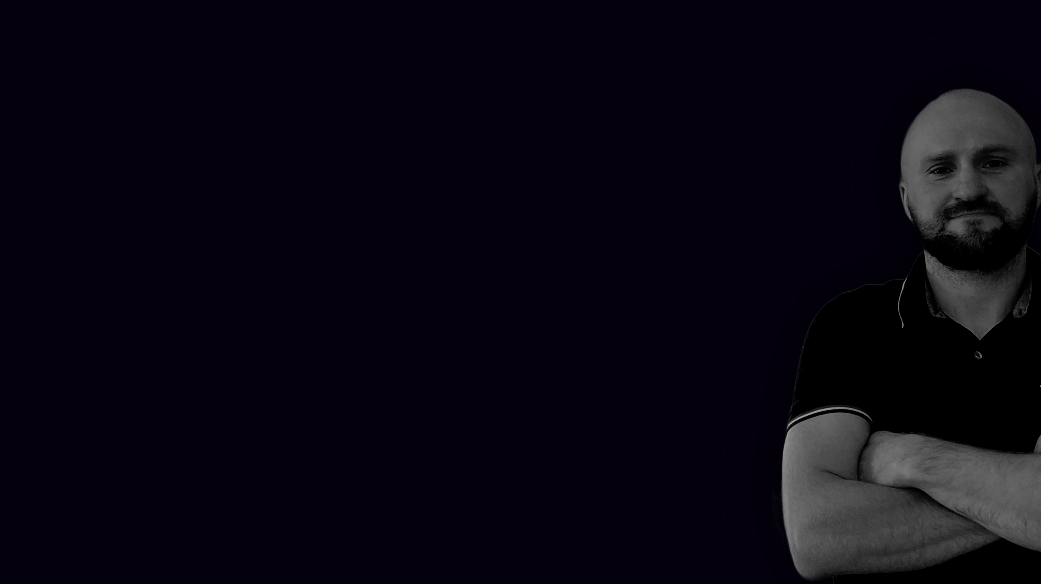
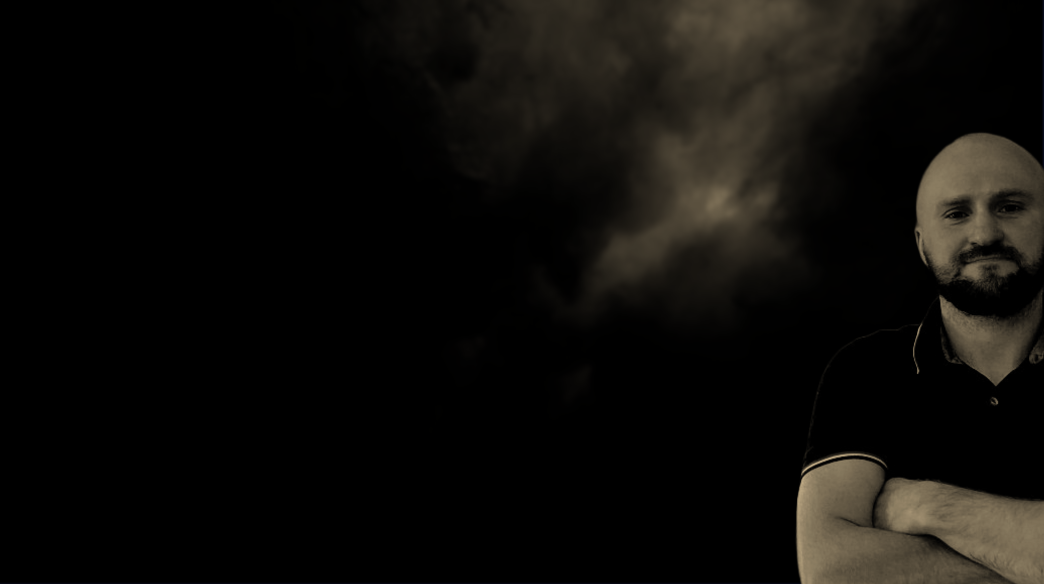
toggle

Changed region(s): [[0.7378, 0.0, 1.0, 1.0], [0.4304, 0.0, 0.8915, 0.4932]]

diff --git a/src/components/header.js b/src/components/header.js
@@ -1,56 +1,79 @@
 import React, { useState } from 'react';
-import { Navbar, Nav, NavDropdown } from 'react-bootstrap';
-import Projects from '../components/pages/projects';
+import { Navbar, Nav } from 'react-bootstrap';
+import resultImg from '../components/images/result.png'; // import the result.png image
+import whiteImg from '../components/images/white.png'; // import the white.png image
 
 function Header() {
   const [expanded, setExpanded] = useState(false);
+  const [bgImage, setBgImage] = useState(resultImg); // set the initial background image to resultImg
+  const [isToggleOn, setIsToggleOn] = useState(false); // set the initial toggle state to false
 
   const handleNavCollapse = () => {
     setExpanded(false);
   };
 
+
+  const handleBgToggle = () => {
+    const newBgImage = bgImage === resultImg ? whiteImg : resultImg;
+    setBgImage(newBgImage);
+    document.body.style.backgroundImage = `url(${newBgImage})`;
+    if (newBgImage === whiteImg) {
+      document.body.classList.add('white-bg'); // add the white-bg class to the body element
+    } else {
+      document.body.classList.remove('white-bg'); // remove the white-bg class from the body element
+    }
+    setIsToggleOn(!isToggleOn);
+  };
+
   return (
-    <Navbar
-      style={{ marginRight: '2%' }}
-      id="navbarNav"
-      expand="lg"
-      expanded={expanded}
-    >
-      <Navbar.Brand
-        href="#"
-        id="navbar-logo"
-        style={{ color: 'orange', marginLeft: '2%', marginRight: '2%' }}
+    <div className="header" >
+      <Navbar
+        style={{ marginRight: '2%' }}
+        id="navbarNav"
+        expand="lg"
+        expanded={expanded}
       >
-        &#123;&#123; Mariusz-Portfolio &#125;&#125;
-      </Navbar.Brand>
-      <Navbar.Toggle
-        aria-controls="basic-navbar-nav"
-        onClick={() => setExpanded(expanded ? false : 'expanded')}
-      />
-      <Navbar.Collapse id="basic-navbar-nav">
-        <Nav
-          className="navbar-collapse justify-content-end"
-          id="navbarNav"
-          onClick={() => setExpanded(false)}
+        <Navbar.Brand
+          href="#"
+          id="navbar-logo"
+          style={{ color: 'orange', marginLeft: '2%', marginRight: '2%' }}
         >
-          <Nav.Link href="#/projects" onClick={handleNavCollapse}>
-            Projects
-          </Nav.Link>
-          <Nav.Link href="#/skills" onClick={handleNavCollapse}>
-            Skills
-          </Nav.Link>
-          <Nav.Link href="#/About" onClick={handleNavCollapse}>
-            About
-          </Nav.Link>
-          <Nav.Link href="#/Contact" onClick={handleNavCollapse}>
-            Contact
-          </Nav.Link>
-          <Nav.Link href="#/CV" onClick={handleNavCollapse}>
-            CV
-          </Nav.Link>
-        </Nav>
-      </Navbar.Collapse>
-    </Navbar>
+          &#123;&#123; Mariusz-Portfolio &#125;&#125;
+        </Navbar.Brand>
+        <label className="switch">
+        <input type="checkbox" onClick={handleBgToggle} />
+        <span className="slider round" style={{ background: isToggleOn ? 'green' : 'red' }}></span>
+      </label>
+        <Navbar.Toggle
+          aria-controls="basic-navbar-nav"
+          onClick={() => setExpanded(expanded ? false : 'expanded')}
+        />
+        <Navbar.Collapse id="basic-navbar-nav">
+          <Nav
+            className="navbar-collapse justify-content-end"
+            id="navbarNav"
+            onClick={() => setExpanded(false)}
+          >
+            <Nav.Link href="#/projects" onClick={handleNavCollapse}>
+              Projects
+            </Nav.Link>
+            <Nav.Link href="#/skills" onClick={handleNavCollapse}>
+              Skills
+            </Nav.Link>
+            <Nav.Link href="#/About" onClick={handleNavCollapse}>
+              About
+            </Nav.Link>
+            <Nav.Link href="#/Contact" onClick={handleNavCollapse}>
+              Contact
+            </Nav.Link>
+            <Nav.Link href="#/CV" onClick={handleNavCollapse}>
+              CV
+            </Nav.Link>
+          </Nav>
+        </Navbar.Collapse>
+      </Navbar>
+       
+    </div>
   );
 }
 

diff --git a/src/index.css b/src/index.css
@@ -17,6 +17,73 @@ h2 {
   animation: slide-up 3s ease-out forwards;
 }
 
+.white-bg p {
+  color: black !important;
+} 
+
+.white-bg p {
+  color: black !important;
+} 
+
+.switch {
+  
+  position: relative;
+  display: inline-block;
+  width: 60px;
+  height: 34px;
+}
+
+.switch input {
+  opacity: 0;
+  width: 0;
+  height: 0;
+}
+
+.slider {
+  position: absolute;
+  cursor: pointer;
+  top: 0;
+  left: 0;
+  right: 0;
+  bottom: 0;
+  background-color: #ffffff !important;
+  -webkit-transition: .4s;
+  transition: .4s;
+}
+
+.slider:before {
+  position: absolute;
+  content: "";
+  height: 26px;
+  width: 26px;
+  left: 4px;
+  bottom: 4px;
+  background-color: rgb(252, 164, 0);
+  -webkit-transition: .4s;
+  transition: .4s;
+}
+
+input:checked + .slider {
+  background-color: #2196F3;
+  background: rgba(0, 0, 0, 0.89) !important;
+}
+
+input:checked + .slider:before {
+  
+  -webkit-transform: translateX(26px);
+  -ms-transform: translateX(26px);
+  transform: translateX(26px);
+}
+
+.slider.round {
+  border-radius: 20px;
+}
+
+.slider.round:before {
+  border-radius: 50%;
+}
+
+
 @keyframes slide-up {
   0% {
     opacity: 0;
